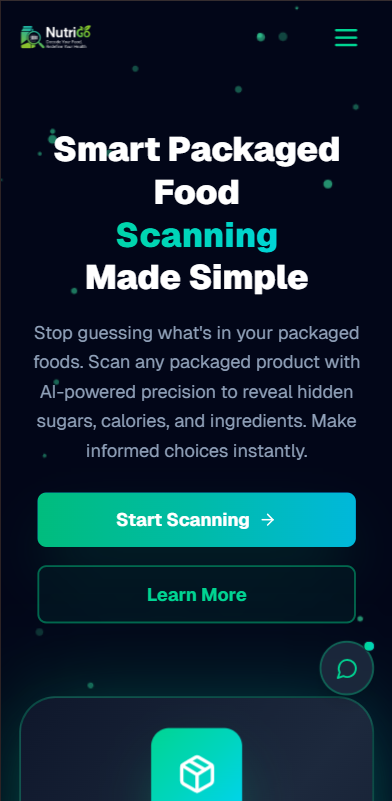
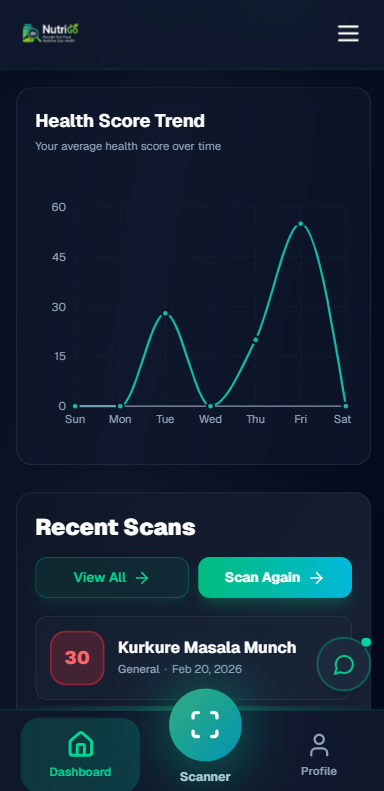
Phone model + screen updated

diff --git a/components/landing/hero-section.tsx b/components/landing/hero-section.tsx
@@ -1,6 +1,5 @@
 "use client"
 
-import Image from "next/image"
 import Link from "next/link"
 import { Button } from "@/components/ui/button"
 import { ArrowRight } from "lucide-react"
@@ -140,28 +139,50 @@ export default function HeroSection() {
           </div>
 
           {/* Right Visual */}
-          <div className="relative flex items-center justify-center mt-8 md:mt-0 md:items-start md:pt-0">
-            <div className="md:sticky md:top-24 w-full max-w-[290px] sm:max-w-[320px] md:max-w-none">
-              <div className="relative mx-auto">
-                <div className="absolute inset-0 bg-gradient-to-br from-emerald-500/30 via-teal-500/30 to-cyan-500/30 rounded-[2rem] sm:rounded-[2.25rem] md:rounded-[2.5rem] blur-2xl sm:blur-3xl animate-pulse-slow"></div>
+          <div className="relative flex items-center justify-center mt-8 md:mt-0">
+            <div className="md:sticky md:top-24 w-full max-w-[290px] sm:max-w-[320px] md:max-w-[310px] mx-auto">
 
-                <div className="relative perspective-1000">
-                  <div className="relative w-full aspect-[9/19] sm:w-[270px] sm:h-[560px] md:w-[290px] md:h-[600px] mx-auto transform-gpu md:hover:rotate-y-4 transition-transform duration-700 ease-out">
-                    <div className="absolute inset-0 bg-gradient-to-br from-slate-950 via-slate-900 to-slate-950 rounded-[2rem] sm:rounded-[2.25rem] md:rounded-[2.5rem] border-2 border-emerald-500/30 shadow-2xl shadow-emerald-500/20 overflow-hidden">
-                      <div className="absolute top-2 left-1/2 -translate-x-1/2 w-16 h-4 bg-slate-900 rounded-full border border-slate-800"></div>
-                      <div className="absolute inset-3 sm:inset-4 rounded-[1.6rem] sm:rounded-[1.8rem] overflow-hidden bg-slate-900">
-                        <Image
-                          src="/phone-screen.png"
-                          alt="Nutrigo app screen"
-                          fill
-                          sizes="(min-width: 768px) 260px, 70vw"
-                          className="object-cover"
-                          priority
-                        />
-                      </div>
+              {/* Glow behind phone */}
+              <div className="absolute inset-4 bg-gradient-to-br from-emerald-500/40 via-teal-500/40 to-cyan-500/40 rounded-[3rem] blur-3xl animate-pulse-slow"></div>
+
+              {/* Phone wrapper with 3D hover */}
+              <div className="relative group transition-transform duration-500 ease-out hover:-translate-y-3 hover:[transform:perspective(800px)_rotateY(-8deg)_rotateX(3deg)_translateY(-12px)]">
+
+                {/* Metallic outer frame */}
+                <div className="relative rounded-[3rem] p-[3px] bg-gradient-to-br from-slate-300 via-slate-500 to-slate-800 shadow-[0_30px_60px_-10px_rgba(0,0,0,0.8),inset_0_1px_1px_rgba(255,255,255,0.6)]">
+
+                  {/* Left buttons */}
+                  <div className="absolute -left-[4px] top-[90px] w-[4px] h-7 bg-gradient-to-b from-slate-400 to-slate-600 rounded-l-sm"></div>
+                  <div className="absolute -left-[4px] top-[130px] w-[4px] h-12 bg-gradient-to-b from-slate-400 to-slate-600 rounded-l-sm"></div>
+                  <div className="absolute -left-[4px] top-[190px] w-[4px] h-12 bg-gradient-to-b from-slate-400 to-slate-600 rounded-l-sm"></div>
+                  {/* Right button */}
+                  <div className="absolute -right-[4px] top-[130px] w-[4px] h-16 bg-gradient-to-b from-slate-400 to-slate-600 rounded-r-sm"></div>
+
+                  {/* Black glass inner bezel */}
+                  <div className="rounded-[2.8rem] overflow-hidden bg-black p-[5px]">
+
+                    {/* Screen */}
+                    <div className="relative rounded-[2.4rem] overflow-hidden bg-slate-900" style={{ aspectRatio: '9/19' }}>
+
+                      {/* THE IMAGE */}
+                      {/* eslint-disable-next-line @next/next/no-img-element */}
+                      <img
+                        src="/phone-screen.png"
+                        alt="Nutrigo app screen"
+                        style={{ display: 'block', width: '100%', height: '100%', objectFit: 'cover', position: 'absolute', top: 0, left: 0 }}
+                      />
+
+                      {/* Dynamic Island */}
+                      <div className="absolute top-3 left-1/2 -translate-x-1/2 w-24 h-6 bg-black rounded-full z-30"></div>
+
+                      {/* Screen glare */}
+                      <div className="absolute inset-0 bg-gradient-to-tr from-transparent via-white/0 to-white/10 z-20 pointer-events-none group-hover:via-white/5 group-hover:to-white/20 transition-all duration-700"></div>
                     </div>
                   </div>
                 </div>
+
+                {/* Drop shadow underneath */}
+                <div className="absolute -bottom-6 left-1/2 -translate-x-1/2 w-3/4 h-8 bg-emerald-500/20 blur-2xl rounded-full"></div>
               </div>
             </div>
           </div>
